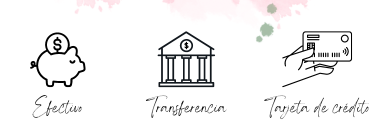
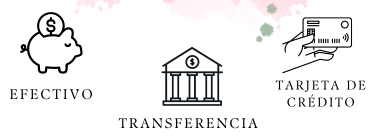
se agregan imagenes. Se modifica titulos del index (tamaño de letra). Se modifican las imagenes de los modos de pago en el index

diff --git a/index.html b/index.html
@@ -175,16 +175,12 @@
 
                 <div class="row">
                     <div class="col-md-6" id="col-md-6">
-                        <img src="./img/efectivo-logo.svg" alt="Efectivo" class="efectivo">
-                        <img src="./img/Banco-icono.svg" alt="Banco" class="banco">
-                        <img src="./img/tarjeta-credito-logo.svg" alt="Tarjeta credito" class="credito">
+                        <img src="./img/modo-pago.png" alt="Efectivo" class="efectivo">
                     </div>
 
                     <div class="col-md-6" id="col-md-6">
-                        <img src="./img/Medios-pago-logo.jpeg" alt="American Express logo" class="banner-medios-pago">
+                        <img src="./img/entidades-bancarias.png" alt="Entidades bancarias: Visa - American Express - Plus Pagos - Master Card" class="banner-medios-pago">
                     </div>
-
-                    <p class="p-efectivo">Efectivo - Transferencia - Tarjeta de crédito</p>
                 </div>
             </div>
         </div>
@@ -195,7 +191,7 @@
     </a>
 
 
-    <footer>
+    <footer class="mt-5">
         <div class="container">
             <div class="row">
                 <div class="col-md-6">

diff --git a/css/styles.css b/css/styles.css
@@ -21,7 +21,7 @@ nav ul{
     display: flex;
     list-style: none;
     gap: 20px;
-    font-size: 20px;
+    font-size: 16px;
     margin-left: 30px;
 }
 
@@ -31,7 +31,6 @@ nav ul{
     border-radius: 25px;
     text-decoration: none;
     color: black;
-
 }
 
         /*INDEX*/
@@ -41,11 +40,10 @@ nav ul{
     margin: 0 auto;
 }
 
-
 .categorias-titulo{
 background-color: #FFEDF0;
 padding: 15px;
-font-size: 40px;
+font-size: 25px;
 }
 
 #col-md-6{
@@ -70,7 +68,6 @@ font-size: 40px;
         width: 90%;
     }
 }
-
 
 .mapa{
     width: 85%;
@@ -177,10 +174,6 @@ footer div ul li{
 
 .banner-medios-pago{
     width: 100%;
-}
-
-.p-efectivo{
-    font-size: 20px;
 }
 
 /* Imagenes de Redes sociales - Whatsapp*/
